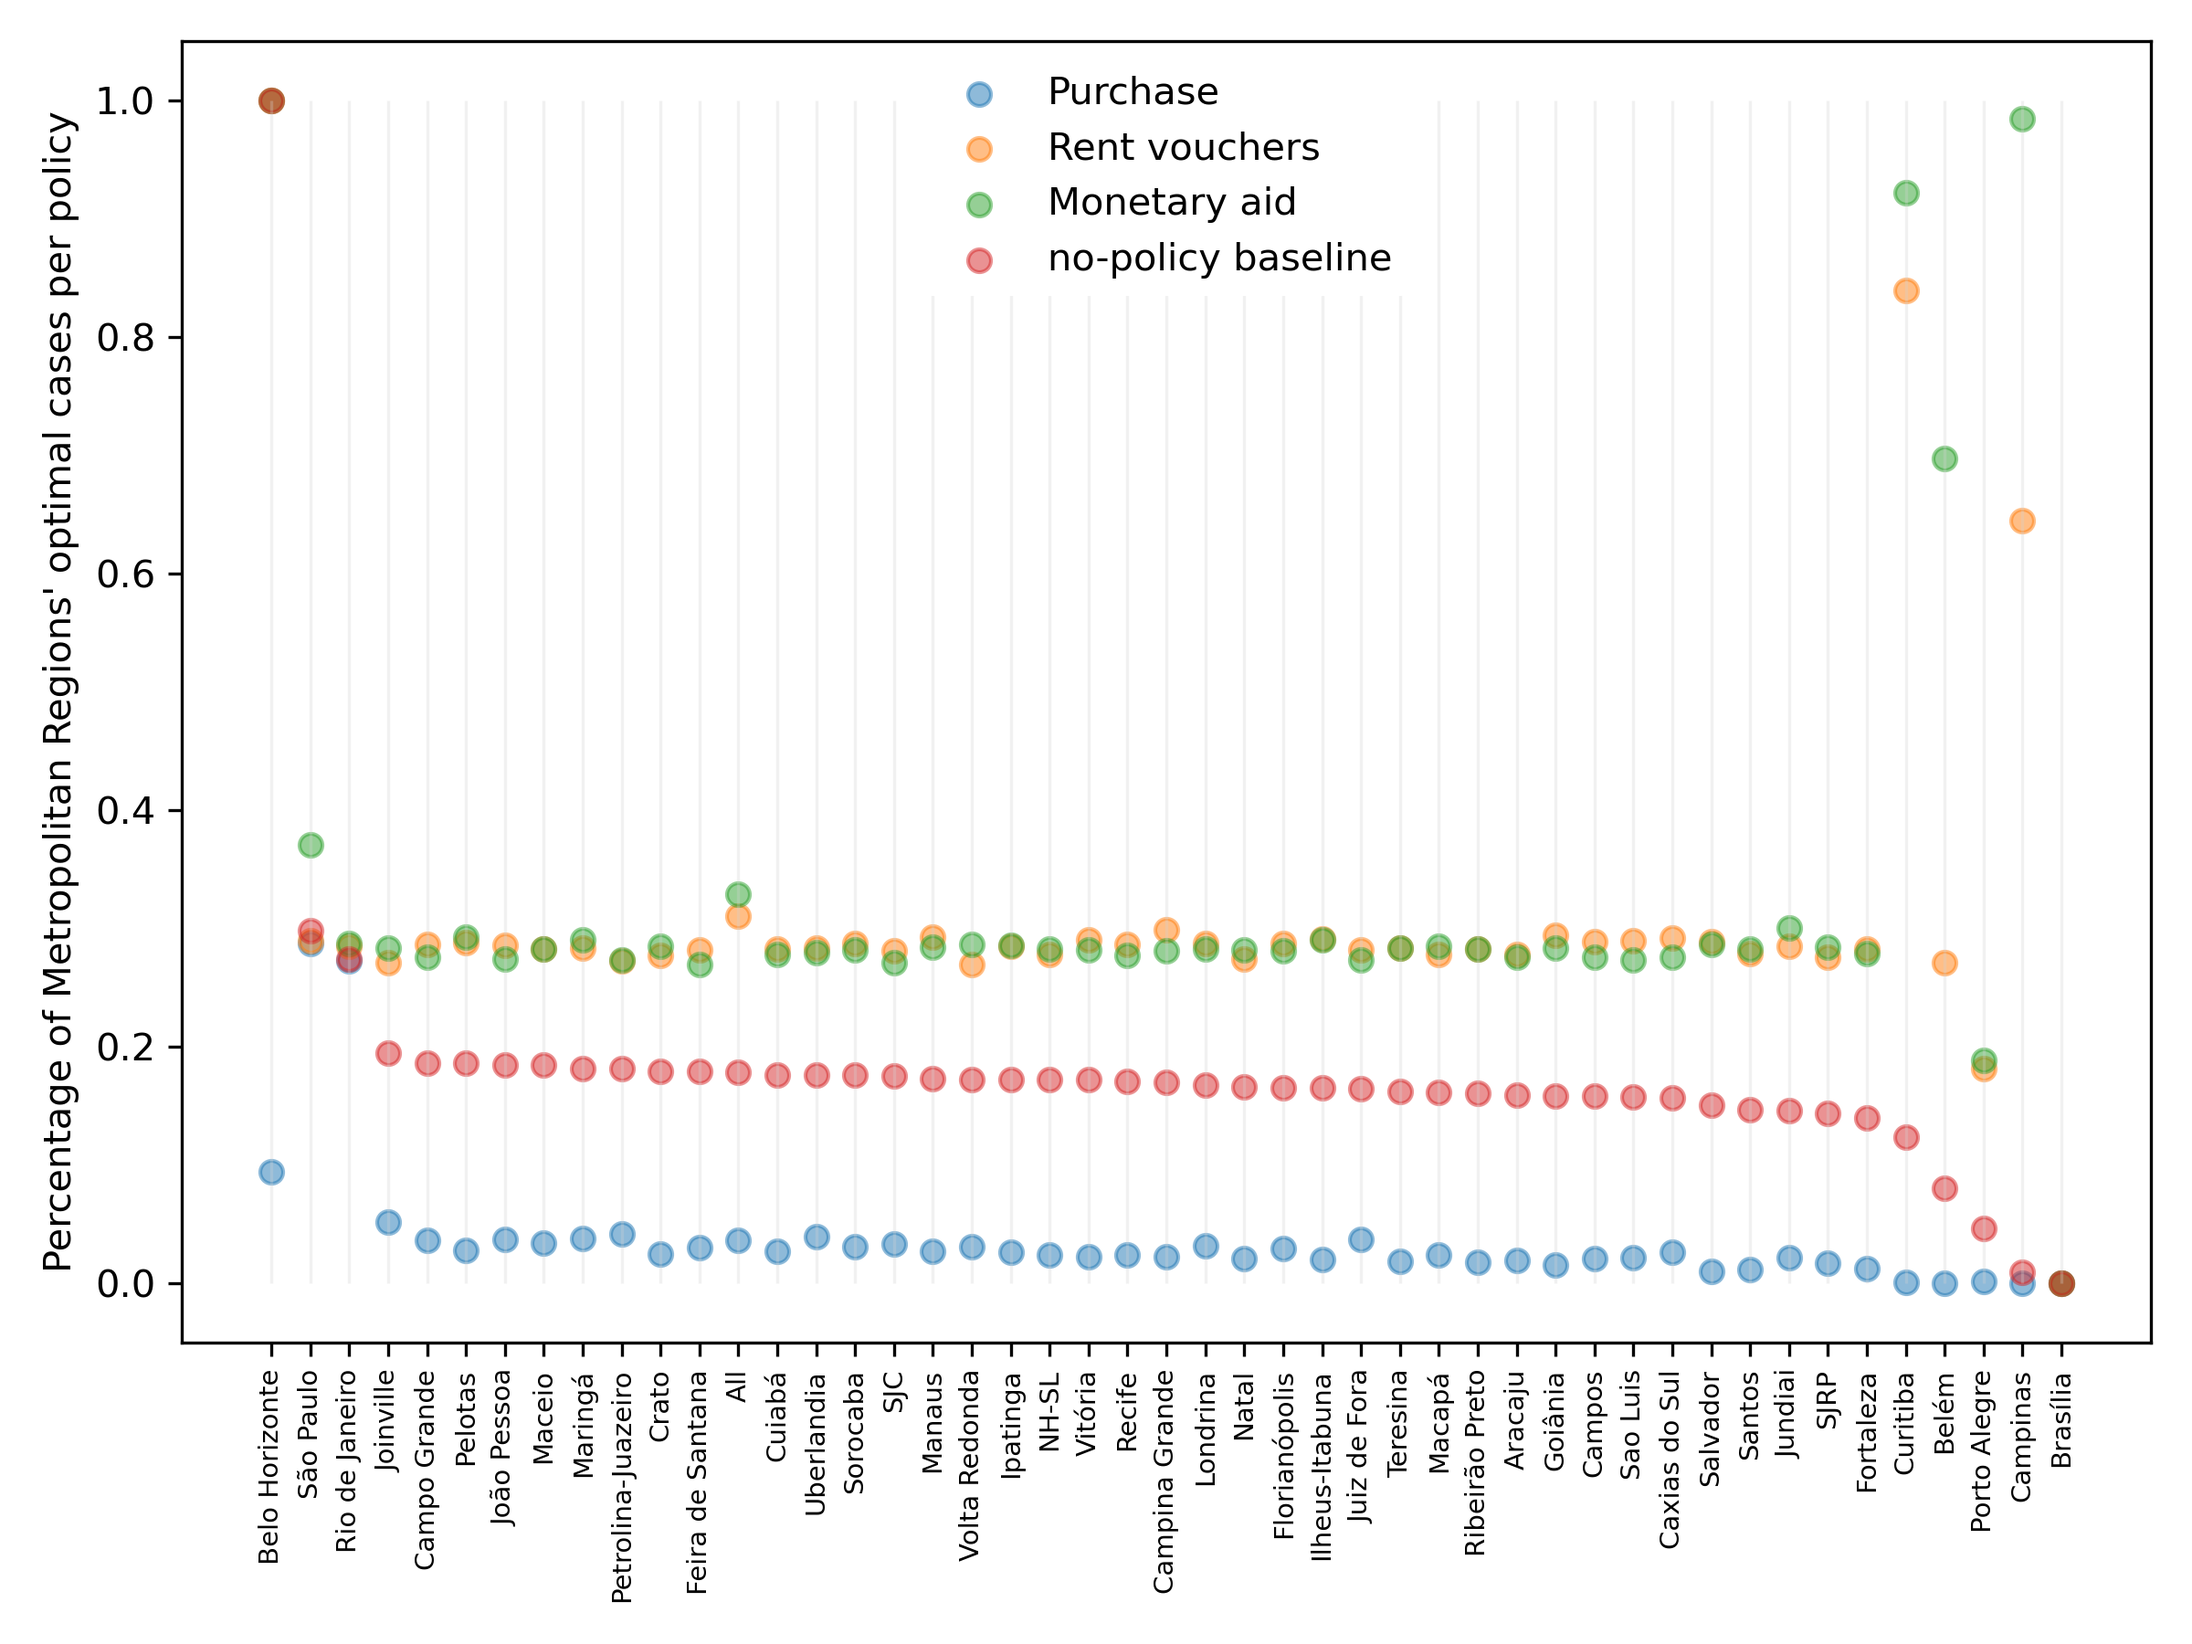
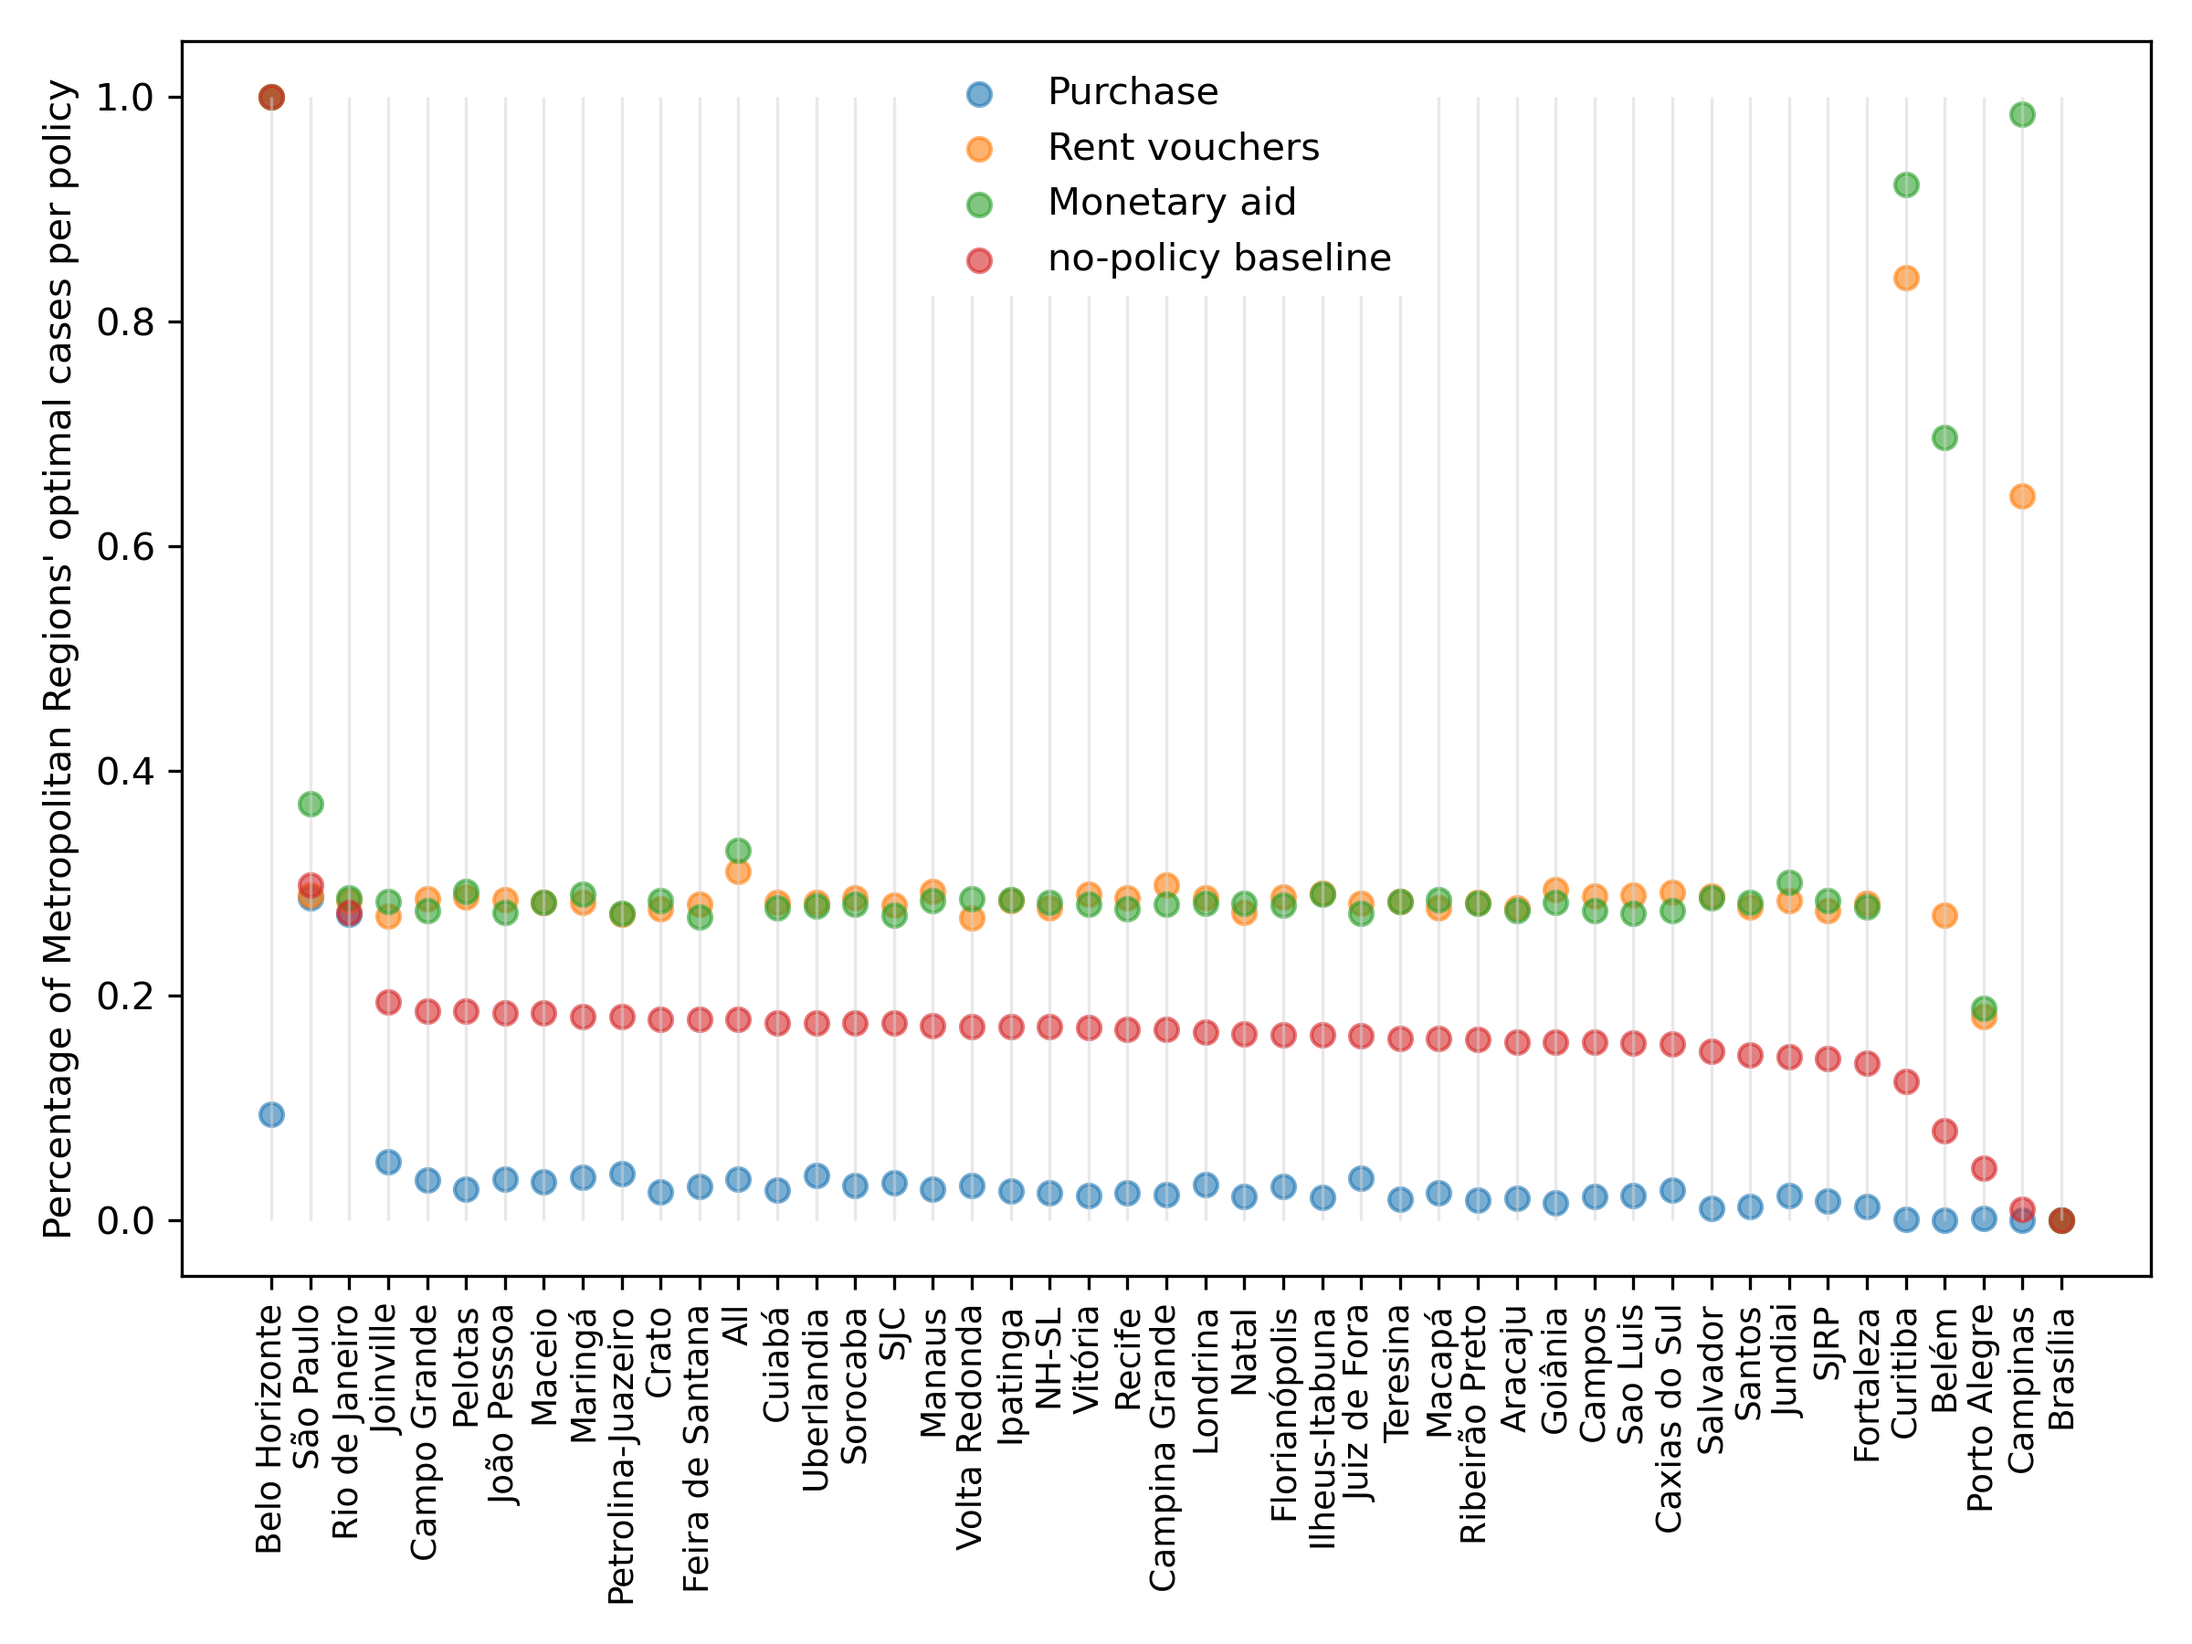
Adjustments plots

diff --git a/analysis/plot_alternative_for_table.py b/analysis/plot_alternative_for_table.py
@@ -12,9 +12,9 @@ def plotting(data, name='name'):
 
     for i, each in enumerate(['POLICIES_buy', 'POLICIES_rent', 'POLICIES_wage', 'POLICIES_no_policy']):
         for mr in data.index:
-            ax.scatter(mr, data.loc[mr, each], color=colors[i], alpha=.5, marker='o')
-    plt.vlines(x=range(len(lbsl)), ymin=0, ymax=1, colors='lightgrey', lw=.8, alpha=.3)
-    plt.xticks(range(len(lbsl)), lbsl, rotation='vertical', fontsize=7)
+            ax.scatter(mr, data.loc[mr, each], color=colors[i], alpha=.6, marker='o')
+    plt.vlines(x=range(len(lbsl)), ymin=0, ymax=1, colors='lightgrey', lw=.8, alpha=.5)
+    plt.xticks(range(len(lbsl)), lbsl, rotation='vertical', fontsize=9)
     ax.legend(['Purchase', 'Rent vouchers', 'Monetary aid', 'no-policy baseline'],
               edgecolor='white', loc='upper center', facecolor='white', framealpha=1)
     plt.ylabel("Percentage of Metropolitan Regions' optimal cases per policy")
@@ -33,6 +33,9 @@ if __name__ == '__main__':
     d = pd.read_csv('IQR.csv', sep=';')
     d.drop('Unnamed: 0', inplace=True, axis=1)
     pivoted_d = pd.pivot(d, index='ACP', columns='pol', values='mean')
-    for e in ['POLICIES_buy', 'POLICIES_rent', 'POLICIES_wage', 'POLICIES_no_policy']:
-        pivoted_d.sort_values(by=e, ascending=False, inplace=True)
-        plotting(pivoted_d, name=e)
+
+    # for e in ['POLICIES_buy', 'POLICIES_rent', 'POLICIES_wage', 'POLICIES_no_policy']:
+    #     pivoted_d.sort_values(by=e, ascending=False, inplace=True)
+    #     plotting(pivoted_d, name=e)
+    pivoted_d.sort_values(by='POLICIES_no_policy', ascending=False, inplace=True)
+    plotting(pivoted_d, name='POLICIES_no_policy')

diff --git a/analysis/plot_z_score_parameters.py b/analysis/plot_z_score_parameters.py
@@ -13,17 +13,17 @@ def plotting(data, col1='simulated_optimal', col2='ml_optimal', name='name'):
         plt.hlines(par,
                    xmin=min(min(d[col1]), min(d[col2])),
                    xmax=max(max(d[col1]), max(d[col2])),
-                   colors='lightgrey', lw=.8, alpha=.3)
+                   colors='lightgrey', lw=.8, alpha=.5)
         ax.plot([data.loc[par, col1], data.loc[par, col2]], [par, par],
                 color=colors[0] if data.loc[par, col1] > data.loc[par, col2]
                 else colors[1], lw=1, alpha=.8)
         for i, each in enumerate([col1, col2]):
             ax.scatter(data.loc[par, each], par, color=colors[i], alpha=.9, marker='o')
 
-    plt.yticks(range(len(lbsl)), lbsl, fontsize=7)
-    ax.legend(['Simulated optimal', 'ML optimal'], edgecolor='white', facecolor='white', framealpha=1)
+    plt.yticks(range(len(lbsl)), lbsl, fontsize=10)
+    ax.legend(['Simulated optimal', 'ML surrogate optimal'], edgecolor='white', facecolor='white', framealpha=1)
     plt.ylabel("Parameters of the ABM model")
-    plt.xlabel(f"z-score in $\sigma$")
+    plt.xlabel(f"z-score of optimal results in relation to the full sample (in $\sigma$)")
     leg = ax.get_legend()
     # # hl_dict = {handle.get_label(): handle for handle in leg.legendHandles}
     for i in range(len(colors)):
